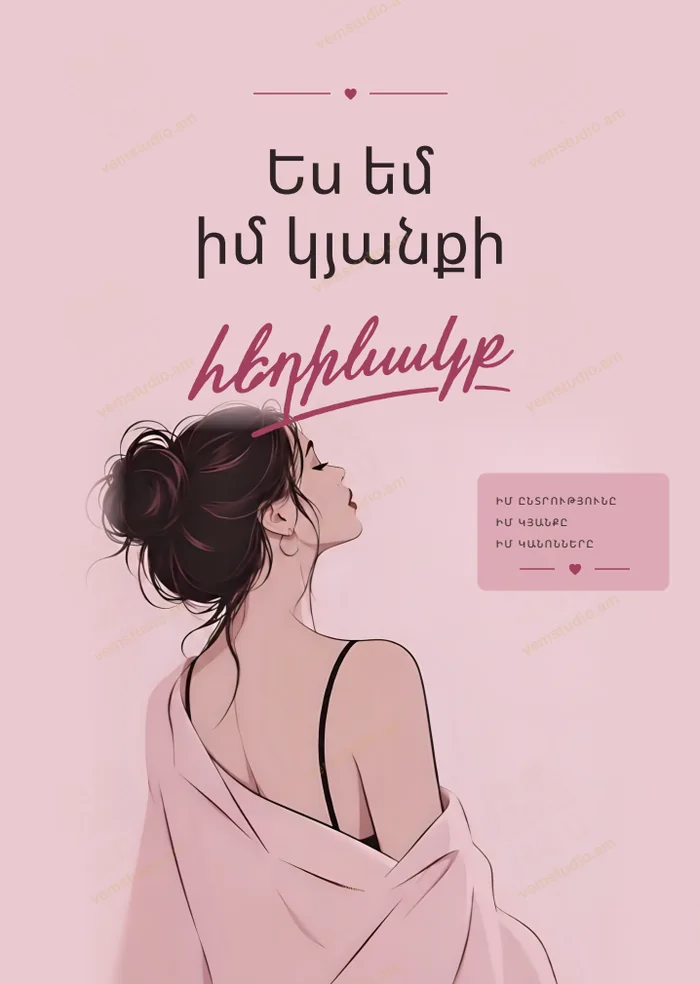
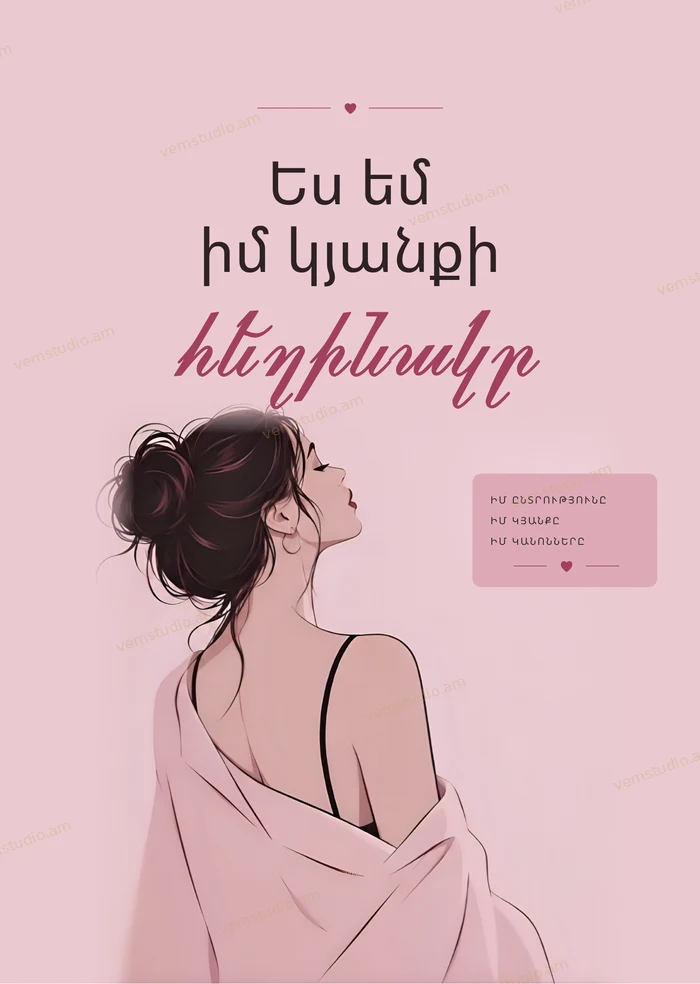
Fix cover lettering: correct word հեղինակը
Claude-Session: https://claude.ai/code/session_01QwsuEMqbqECt3WfiAV3oyM

diff --git a/index.html b/index.html
@@ -249,7 +249,7 @@ footer{margin-top:40px}
       <p class="order"><a class="btn" href="tel:+37493084103"><span class="hy">Պատվիրել տպագիր գիրքը</span><span class="en">Order the printed book</span></a></p>
     </div>
     <div class="peek tall" role="list" aria-label="Էջերի օրինակներ / Sample pages">
-      <figure role="listitem"><img src="img/esem-kazm.webp" width="700" height="984" loading="lazy" alt="«Ես եմ իմ կյանքի հեղինակը» գրքի կազմը / Cover of I Am the Author of My Life"><figcaption><span class="hy">Կազմը</span><span class="en">Cover</span></figcaption></figure>
+      <figure role="listitem"><img src="img/esem-kazm.webp?v=2" width="700" height="984" loading="lazy" alt="«Ես եմ իմ կյանքի հեղինակը» գրքի կազմը / Cover of I Am the Author of My Life"><figcaption><span class="hy">Կազմը</span><span class="en">Cover</span></figcaption></figure>
       <figure role="listitem"><img src="img/esem-namak.webp" width="700" height="970" loading="lazy" alt="Հեղինակի նամակը ընթերցողին / The author's letter to the reader"><figcaption><span class="hy">Նամակ ընթերցողին</span><span class="en">A letter to the reader</span></figcaption></figure>
       <figure role="listitem"><img src="img/esem-qartez.webp" width="700" height="970" loading="lazy" alt="«Իմ կյանքի ոլորտների քարտեզը» էջը / The map of my life's areas"><figcaption><span class="hy">Կյանքի ոլորտների քարտեզը</span><span class="en">The map of life's areas</span></figcaption></figure>
       <figure role="listitem"><img src="img/esem-vatchutyun.webp" width="700" height="970" loading="lazy" alt="Վարժություն սահմանների մասին / An exercise on boundaries"><figcaption><span class="hy">Վարժություն</span><span class="en">An exercise</span></figcaption></figure>
